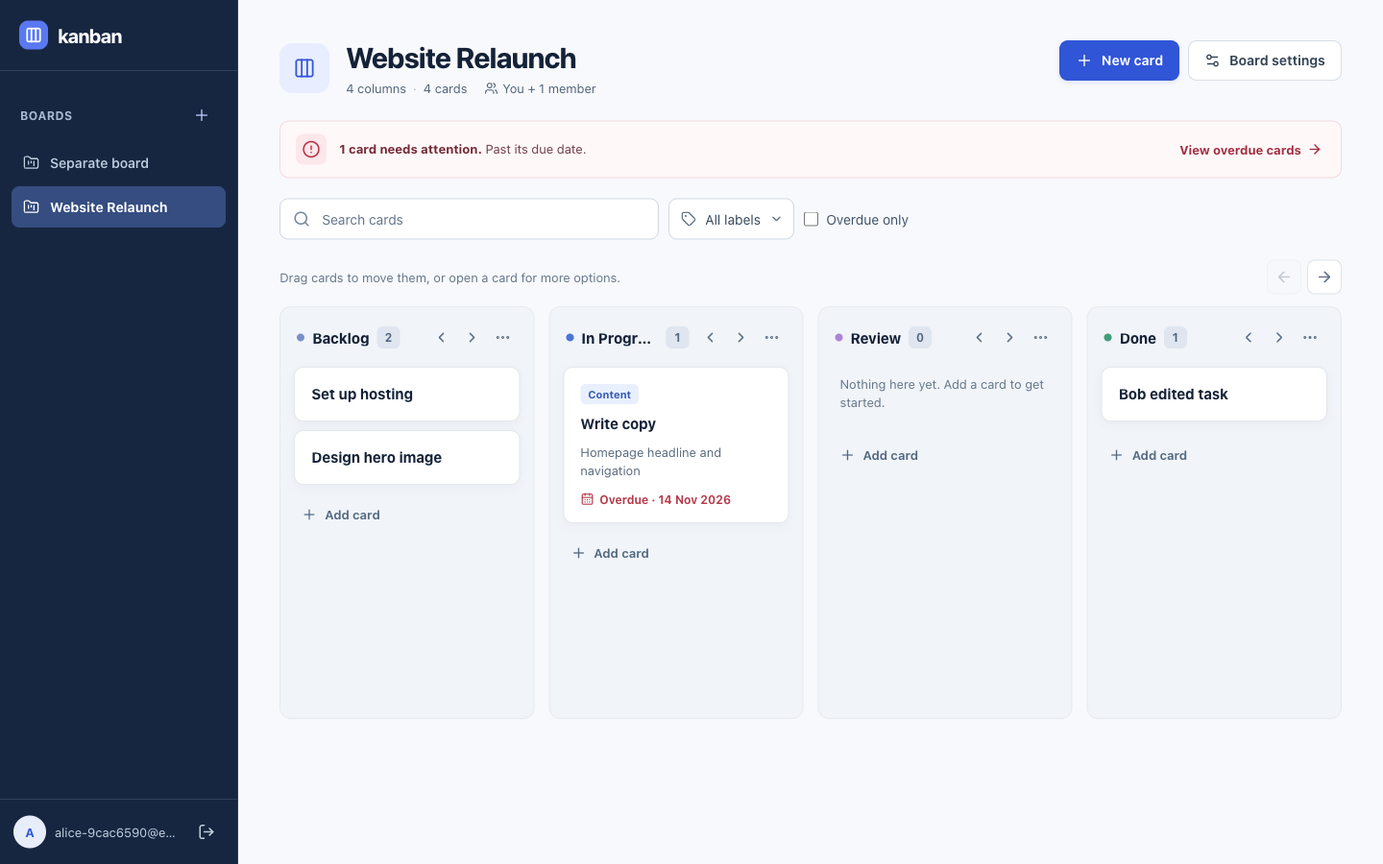
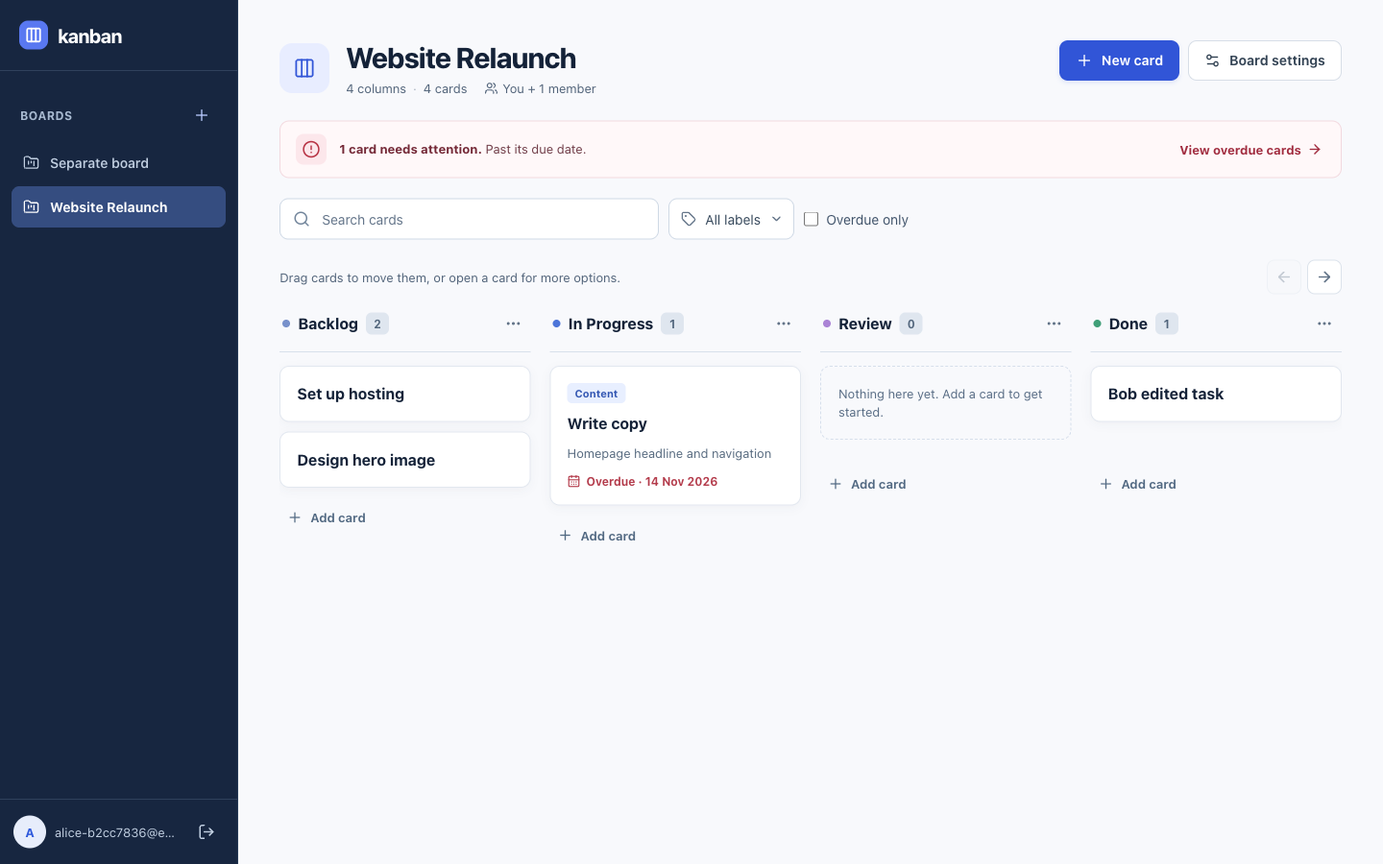
Polish Kanban board workflow and column layout

diff --git a/web/src/components.jsx b/web/src/components.jsx
@@ -1,7 +1,7 @@
 import { useEffect, useMemo, useRef, useState } from 'react';
 import {
-  ArrowLeft, ArrowRight, CalendarDays, Check, ChevronDown, ChevronLeft, ChevronRight,
-  CircleAlert, Columns3, Ellipsis, FolderKanban, GripVertical, LogOut, Plus,
+  ArrowLeft, ArrowRight, CalendarDays, ChevronDown,
+  CircleAlert, Columns3, Ellipsis, FolderKanban, LogOut, Plus,
   Search, Settings2, Tag, Trash2, Users, X,
 } from 'lucide-react';
 import { formatDate, isOverdue } from './api.js';
@@ -80,9 +80,20 @@ export function Sidebar({ boards, selectedId, me, onSelect, onCreate, onSignOut,
   </>;
 }
 
-export function BoardColumn({ column, cards, labels, owner, onAdd, onEdit, onMove, onReorder, onRename, onDelete }) {
+export function BoardColumn({ column, cards, labels, owner, canMoveLeft, canMoveRight, onAdd, onQuickAdd, onEdit, onMove, onReorder, onRename, onDelete }) {
   const [menu, setMenu] = useState(false);
   const [dragOver, setDragOver] = useState(false);
+  const [adding, setAdding] = useState(false);
+  const [draft, setDraft] = useState('');
+  const [saving, setSaving] = useState(false);
+  const submitDraft = async (event) => {
+    event.preventDefault();
+    if (!draft.trim() || saving) return;
+    setSaving(true);
+    const saved = await onQuickAdd(column.id, draft.trim());
+    setSaving(false);
+    if (saved) setDraft('');
+  };
   const drop = (event, index) => {
     event.preventDefault(); event.stopPropagation(); setDragOver(false);
     const id = Number(event.dataTransfer.getData('text/plain'));
@@ -90,7 +101,7 @@ export function BoardColumn({ column, cards, labels, owner, onAdd, onEdit, onMov
   };
   return <section className={`board-column ${dragOver ? 'drop-target' : ''}`} aria-labelledby={`column-${column.id}`} onDragOver={(event) => { event.preventDefault(); setDragOver(true); }} onDragLeave={(event) => { if (!event.currentTarget.contains(event.relatedTarget)) setDragOver(false); }} onDrop={(event) => drop(event, column.cards.length)}>
     <div className="column-top"><div className="column-title"><span className="stage-dot" aria-hidden="true" /><h2 id={`column-${column.id}`}>{column.name}</h2><span className="count">{column.cards.length}</span></div>
-      {owner && <div className="column-tools"><IconButton icon={ChevronLeft} label={`Move ${column.name} left`} onClick={() => onReorder(column.id, -1)} /><IconButton icon={ChevronRight} label={`Move ${column.name} right`} onClick={() => onReorder(column.id, 1)} /><div className="menu-wrap"><IconButton icon={Ellipsis} label={`${column.name} options`} aria-expanded={menu} onClick={() => setMenu(!menu)} />{menu && <div className="mini-menu"><button type="button" onClick={() => { setMenu(false); onRename(column); }}>Rename column</button><button type="button" className="danger-text" onClick={() => { setMenu(false); onDelete(column); }}>Delete column</button></div>}</div></div>}
+      {owner && <div className="column-tools"><div className="menu-wrap"><IconButton icon={Ellipsis} label={`${column.name} options`} aria-expanded={menu} onClick={() => setMenu(!menu)} />{menu && <div className="mini-menu"><button type="button" disabled={!canMoveLeft} onClick={() => { setMenu(false); onReorder(column.id, -1); }}>Move {column.name} left</button><button type="button" disabled={!canMoveRight} onClick={() => { setMenu(false); onReorder(column.id, 1); }}>Move {column.name} right</button><button type="button" onClick={() => { setMenu(false); onRename(column); }}>Rename column</button><button type="button" className="danger-text" onClick={() => { setMenu(false); onDelete(column); }}>Delete column</button></div>}</div></div>}
     </div>
     <div className="column-cards">{column.cards.length === 0 && <p className="column-empty">Nothing here yet. Add a card to get started.</p>}{cards.map((card) => {
       const overdue = isOverdue(card.due_date);
@@ -101,7 +112,11 @@ export function BoardColumn({ column, cards, labels, owner, onAdd, onEdit, onMov
         {card.due_date && <span className={`card-due ${overdue ? 'overdue' : ''}`}><CalendarDays size={14} aria-hidden="true" />{overdue ? 'Overdue · ' : ''}{formatDate(card.due_date)}</span>}
       </button>;
     })}</div>
-    <button type="button" className="add-card" onClick={() => onAdd(column.id)}><Plus size={16} strokeWidth={2} aria-hidden="true" />Add card</button>
+    {adding ? <form className="quick-add" onSubmit={submitDraft}>
+      <label className="sr-only" htmlFor={`quick-add-${column.id}`}>Card title for {column.name}</label>
+      <input id={`quick-add-${column.id}`} name="quick-card-title" autoComplete="off" autoFocus maxLength={200} placeholder="Card title" value={draft} onChange={(event) => setDraft(event.target.value)} onKeyDown={(event) => { if (event.key === 'Escape' && !draft.trim()) setAdding(false); }} />
+      <div className="quick-add-actions"><button type="submit" className="button primary" disabled={!draft.trim() || saving}>{saving ? 'Adding…' : 'Add card'}</button><button type="button" className="button subtle" onClick={() => { setAdding(false); setDraft(''); }}>Cancel</button><button type="button" className="quick-add-details" onClick={() => { onAdd(column.id, draft); setAdding(false); setDraft(''); }}>More details</button></div>
+    </form> : <button type="button" className="add-card" onClick={() => setAdding(true)}><Plus size={16} strokeWidth={2} aria-hidden="true" />Add card</button>}
   </section>;
 }
 
@@ -122,18 +137,28 @@ export function ConfirmDialog({ title, message, confirmLabel, onConfirm, onClose
   return <Dialog title={title} onClose={onClose}><div className="dialog-body"><p className="confirm-message">{message}</p>{error && <p className="form-error" role="alert">{error}</p>}<div className="dialog-actions"><button type="button" className="button secondary" onClick={onClose}>Cancel</button><button type="button" className="button danger" onClick={onConfirm} disabled={busy}>{confirmLabel}</button></div></div></Dialog>;
 }
 
-export function CardEditor({ card, initialColumnId, board, onSave, onDelete, onClose, busy, error }) {
+export function CardEditor({ card, initialTitle = '', initialColumnId, board, onSave, onDelete, onClose, busy, error }) {
   const initialColumn = board.columns.find((column) => column.id === (card?.column_id || initialColumnId)) || board.columns[0];
-  const [title, setTitle] = useState(card?.title || '');
+  const initialPosition = card ? initialColumn.cards.findIndex((item) => item.id === card.id) : initialColumn.cards.length;
+  const [title, setTitle] = useState(card?.title || initialTitle);
   const [description, setDescription] = useState(card?.description || '');
   const [dueDate, setDueDate] = useState(card?.due_date || '');
   const [labelIds, setLabelIds] = useState(card?.label_ids || []);
   const [columnId, setColumnId] = useState(initialColumn.id);
-  const [position, setPosition] = useState(card ? initialColumn.cards.findIndex((item) => item.id === card.id) : initialColumn.cards.length);
+  const [position, setPosition] = useState(initialPosition);
+  const [confirmDiscard, setConfirmDiscard] = useState(false);
   const target = board.columns.find((column) => column.id === columnId);
   const maxPosition = target.cards.length + (!card || card.column_id !== columnId ? 1 : 0);
   const toggleLabel = (id) => setLabelIds((current) => current.includes(id) ? current.filter((item) => item !== id) : [...current, id]);
-  return <Dialog title={card ? 'Edit card' : 'New card'} subtitle={card ? 'Update the details and place this card where it belongs.' : `Adding to ${initialColumn.name}`} onClose={onClose} className="card-dialog">
+  const dirty = title !== (card?.title || '') || description !== (card?.description || '') || dueDate !== (card?.due_date || '') || columnId !== initialColumn.id || position !== initialPosition || [...labelIds].sort().join(',') !== [...(card?.label_ids || [])].sort().join(',');
+  const requestClose = () => { if (dirty) setConfirmDiscard(true); else onClose(); };
+  useEffect(() => {
+    if (!dirty) return;
+    const warn = (event) => { event.preventDefault(); event.returnValue = ''; };
+    window.addEventListener('beforeunload', warn);
+    return () => window.removeEventListener('beforeunload', warn);
+  }, [dirty]);
+  return <Dialog title={card ? 'Edit card' : 'New card'} subtitle={card ? 'Update the details and place this card where it belongs.' : `Adding to ${initialColumn.name}`} onClose={requestClose} className="card-dialog">
     <form className="dialog-body card-form" onSubmit={(event) => { event.preventDefault(); onSave({ title: title.trim(), description, due_date: dueDate || null, label_ids: labelIds, column_id: columnId, position }); }}>
       <label className="field-label">Title<input name="title" autoComplete="off" autoFocus={window.matchMedia('(pointer: fine)').matches} value={title} onChange={(event) => setTitle(event.target.value)} required maxLength={200} placeholder="What needs to get done?" /></label>
       <label className="field-label"><span className="field-heading">Description <span className="optional">Optional</span></span><textarea name="description" autoComplete="off" value={description} onChange={(event) => setDescription(event.target.value)} rows={4} placeholder="Add useful context for your team" /></label>
@@ -142,7 +167,8 @@ export function CardEditor({ card, initialColumnId, board, onSave, onDelete, onC
       <label className="field-label position-field">Position<select name="position" value={Math.min(position, maxPosition - 1)} onChange={(event) => setPosition(Number(event.target.value))}>{Array.from({ length: maxPosition }, (_, index) => <option key={index} value={index}>{index + 1} of {maxPosition}</option>)}</select></label>
       <fieldset className="label-picker"><legend>Labels</legend>{board.labels.length ? <div className="label-options">{board.labels.map((label) => <label key={label.id} className="label-option"><input type="checkbox" checked={labelIds.includes(label.id)} onChange={() => toggleLabel(label.id)} /><span className={`label-chip ${label.color}`}>{label.name}</span></label>)}</div> : <p>No labels yet. A board owner can add them in Board settings.</p>}</fieldset>
       {error && <p className="form-error" role="alert"><CircleAlert size={16} aria-hidden="true" />{error}</p>}
-      <div className="dialog-actions"><div>{card && <button type="button" className="button text-danger" onClick={onDelete}><Trash2 size={16} aria-hidden="true" />Delete card</button>}</div><div className="action-group"><button type="button" className="button secondary" onClick={onClose}>Cancel</button><button type="submit" className="button primary" disabled={busy || !title.trim()}>{busy ? 'Saving…' : card ? 'Save changes' : 'Create card'}</button></div></div>
+      {confirmDiscard && <div className="discard-prompt" role="alert"><div><strong>Discard your changes?</strong><span>The card has unsaved edits.</span></div><div className="action-group"><button type="button" className="button secondary" onClick={() => setConfirmDiscard(false)}>Keep editing</button><button type="button" className="button danger-outline" onClick={onClose}>Discard changes</button></div></div>}
+      <div className="dialog-actions"><div>{card && <button type="button" className="button text-danger" onClick={onDelete}><Trash2 size={16} aria-hidden="true" />Delete card</button>}</div><div className="action-group"><button type="button" className="button secondary" onClick={requestClose}>Cancel</button><button type="submit" className="button primary" disabled={busy || !title.trim()}>{busy ? 'Saving…' : card ? 'Save changes' : 'Create card'}</button></div></div>
     </form>
   </Dialog>;
 }

diff --git a/web/src/styles.css b/web/src/styles.css
@@ -34,6 +34,8 @@ button, input, textarea, select { -webkit-tap-highlight-color: transparent; }
 .button.primary:disabled { opacity: .55; }
 .button.secondary { background: white; border-color: #d7dee7; color: #334354; }
 .button.secondary:hover { background: #f4f6f9; border-color: #bac6d4; }
+.button.subtle { background: transparent; color: #52647a; }
+.button.subtle:hover { background: #e9edf4; color: var(--ink); }
 .button.danger { background: var(--danger); color: white; }
 .button.danger:hover { background: #9c2637; }
 .button.danger-outline { color: var(--danger); background: white; border-color: #ecc5ca; }
@@ -138,7 +140,7 @@ button, input, textarea, select { -webkit-tap-highlight-color: transparent; }
 .clear-filters, .filter-empty button { border: 0; background: transparent; color: var(--blue); font-size: 13px; font-weight: 680; }
 .clear-filters:hover, .filter-empty button:hover { text-decoration: underline; }
 .board-tools { display: flex; justify-content: space-between; align-items: center; gap: 16px; min-height: 34px; margin-bottom: 12px; }
-.board-tools p { margin: 0; color: #64768b; font-size: 13px; }
+.board-tools p { margin: 0; color: #52647a; font-size: 13px; }
 .board-navigation { display: flex; gap: 6px; }
 .board-navigation .icon-button { border: 1px solid #dce3eb; background: white; }
 .board-navigation .icon-button:disabled { background: #f5f6f8; }
@@ -146,28 +148,29 @@ button, input, textarea, select { -webkit-tap-highlight-color: transparent; }
 .board-scroll { width: 100%; min-width: 0; overflow-x: auto; overflow-y: hidden; padding: 0 0 16px; scrollbar-color: #c2cbd8 transparent; scroll-behavior: smooth; }
 .board-scroll:focus { outline: none; }
 .board-scroll:focus-visible { outline: 3px solid #86a5ff; outline-offset: 2px; }
-.board-columns { display: flex; gap: 15px; align-items: flex-start; min-height: 330px; width: max-content; }
-.board-column { --stage-color: #8494aa; display: flex; flex-direction: column; width: clamp(260px, calc((100vw - 248px - 6vw - 45px) / 4), 310px); min-height: 430px; padding: 14px; border: 1px solid #e5eaf1; border-radius: 12px; background: var(--column); transition: border-color .15s ease, background .15s ease; }
+.board-columns { display: flex; gap: 20px; align-items: flex-start; min-height: 330px; width: max-content; }
+.board-column { --stage-color: #8494aa; display: flex; flex-direction: column; width: clamp(260px, calc((100vw - 248px - 6vw - 60px) / 4), 310px); min-height: 340px; padding: 0; border-radius: 10px; background: transparent; transition: background .15s ease; }
 .board-column:nth-child(4n + 1) { --stage-color: #7891cb; }
 .board-column:nth-child(4n + 2) { --stage-color: #4d75d9; }
 .board-column:nth-child(4n + 3) { --stage-color: #ab84d6; }
 .board-column:nth-child(4n + 4) { --stage-color: #409f78; }
-.board-column.drop-target { border-color: #7896e7; background: #e9eeff; }
-.column-top { display: flex; align-items: center; justify-content: space-between; gap: 6px; min-height: 35px; margin-bottom: 13px; padding: 0 2px 0 3px; }
+.board-column.drop-target { background: #e9eeff; }
+.column-top { display: flex; align-items: center; justify-content: space-between; gap: 6px; min-height: 48px; margin-bottom: 14px; padding: 0 2px 11px 3px; border-bottom: 1px solid #d8e0eb; }
 .column-title { display: flex; align-items: center; gap: 8px; min-width: 0; }
 .stage-dot { width: 8px; height: 8px; flex: none; border-radius: 50%; background: var(--stage-color); }
-.column-title h2 { margin: 0; overflow: hidden; text-overflow: ellipsis; white-space: nowrap; font-size: 15px; font-weight: 730; }
+.column-title h2 { min-width: 0; margin: 0; overflow-wrap: anywhere; font-size: 16px; line-height: 1.25; font-weight: 730; }
 .count { display: inline-grid; place-items: center; min-width: 24px; height: 23px; padding: 0 6px; border-radius: 6px; background: #dfe6ef; color: #50647b; font-size: 12px; font-weight: 680; font-variant-numeric: tabular-nums; }
 .column-tools { display: flex; align-items: center; flex: none; }
 .column-tools .icon-button { width: 32px; height: 32px; }
 .menu-wrap { position: relative; }
-.mini-menu { position: absolute; z-index: 5; top: 29px; right: 0; width: 148px; padding: 4px; border: 1px solid #dfe5ed; border-radius: 8px; background: white; box-shadow: 0 12px 30px #20304924; }
-.mini-menu button { display: block; width: 100%; padding: 8px 9px; border: 0; border-radius: 5px; background: transparent; color: #37485b; text-align: left; font-size: 12px; }
+.mini-menu { position: absolute; z-index: 5; top: 37px; right: 0; width: 200px; padding: 5px; border: 1px solid #dfe5ed; border-radius: 9px; background: white; box-shadow: 0 12px 30px #20304924; }
+.mini-menu button { display: block; width: 100%; padding: 9px 10px; border: 0; border-radius: 6px; background: transparent; color: #37485b; text-align: left; font-size: 13px; }
 .mini-menu button:hover { background: #f3f5f9; }
+.mini-menu button:disabled { color: #98a7b8; background: transparent; }
 .mini-menu .danger-text { color: var(--danger); }
-.column-cards { display: grid; align-content: start; gap: 9px; min-height: 61px; }
-.column-empty { margin: 8px 8px 7px; color: #65768b; font-size: 13px; line-height: 1.5; }
-.task-card { display: flex; flex-direction: column; align-items: flex-start; gap: 10px; width: 100%; padding: 17px; border: 1px solid #e3e7ee; border-radius: 10px; background: white; color: var(--ink); box-shadow: 0 3px 10px #1e2a3a0b; text-align: left; cursor: grab; transition: border-color .15s ease, box-shadow .15s ease, transform .15s ease; }
+.column-cards { display: grid; align-content: start; gap: 10px; min-height: 92px; }
+.column-empty { margin: 0; padding: 18px; border: 1px dashed #d6dfeb; border-radius: 10px; color: #596d85; font-size: 13px; line-height: 1.5; }
+.task-card { display: flex; flex-direction: column; align-items: flex-start; gap: 10px; width: 100%; padding: 17px; border: 1px solid #e2e7ef; border-radius: 10px; background: white; color: var(--ink); box-shadow: 0 3px 10px #1e2a3a0b; text-align: left; cursor: grab; transition: border-color .15s ease, box-shadow .15s ease, transform .15s ease; }
 .task-card:hover { border-color: #aabce5; box-shadow: 0 5px 16px #24304816; transform: translateY(-1px); }
 .task-card:active { cursor: grabbing; }
 .card-labels { display: flex; flex-wrap: wrap; gap: 5px; }
@@ -177,12 +180,19 @@ button, input, textarea, select { -webkit-tap-highlight-color: transparent; }
 .label-chip.green { background: #def5eb; color: #287357; }
 .label-chip.purple { background: #f0e9ff; color: #6d45a0; }
 .label-chip.amber { background: #fff1d8; color: #936019; }
-.card-title { width: 100%; overflow-wrap: anywhere; font-size: 15px; line-height: 1.4; font-weight: 700; }
+.card-title { width: 100%; overflow-wrap: anywhere; font-size: 16px; line-height: 1.4; font-weight: 700; }
 .card-description { display: -webkit-box; width: 100%; overflow: hidden; color: #586b80; font-size: 13px; line-height: 1.45; overflow-wrap: anywhere; -webkit-box-orient: vertical; -webkit-line-clamp: 2; }
 .card-due { display: inline-flex; align-items: center; gap: 6px; margin-top: 3px; color: #576a80; font-size: 12px; }
 .card-due.overdue { color: #b33a4a; font-weight: 680; }
 .add-card { display: flex; align-items: center; gap: 8px; width: 100%; min-height: 44px; margin-top: 9px; padding: 9px 8px; border: 0; border-radius: 8px; background: transparent; color: #526982; text-align: left; font-size: 13px; font-weight: 650; }
 .add-card:hover { background: #e5e9ef; color: #394f71; }
+.quick-add { display: grid; gap: 10px; margin-top: 10px; padding: 11px; border: 1px solid #cdd9ef; border-radius: 10px; background: white; box-shadow: 0 8px 22px #24304812; }
+.quick-add input { width: 100%; min-width: 0; height: 40px; padding: 9px 11px; border: 1px solid #d5dde7; border-radius: 7px; outline: 0; color: var(--ink); background: white; font-size: 14px; }
+.quick-add input:focus { border-color: #6b8cf1; outline: 3px solid #e4ebff; }
+.quick-add-actions { display: flex; align-items: center; gap: 3px; flex-wrap: wrap; }
+.quick-add-actions .button { min-height: 36px; padding: 8px 10px; font-size: 12px; }
+.quick-add-details { margin-left: auto; padding: 8px 2px; border: 0; background: transparent; color: var(--blue); font-size: 12px; font-weight: 690; }
+.quick-add-details:hover { text-decoration: underline; }
 .add-column { display: flex; align-items: center; gap: 9px; width: 195px; min-height: 41px; padding: 10px 12px; border: 1px dashed #c8d2de; border-radius: 9px; background: #f7f9fc; color: #5f6f81; text-align: left; font-size: 13px; font-weight: 600; }
 .add-column:hover { background: #ecf1fb; border-color: #9eafe0; color: #315bdc; }
 
@@ -207,6 +217,9 @@ button, input, textarea, select { -webkit-tap-highlight-color: transparent; }
 .card-form .dialog-actions { justify-content: space-between; }
 .action-group { display: flex; gap: 8px; }
 .confirm-message { margin: 0; color: #4d5b6b; font-size: 14px; line-height: 1.55; }
+.discard-prompt { display: flex; align-items: center; justify-content: space-between; gap: 14px; flex-wrap: wrap; padding: 12px; border: 1px solid #ecc5ca; border-radius: 9px; background: #fff7f8; }
+.discard-prompt > div:first-child { display: grid; gap: 3px; color: #7d2c39; font-size: 13px; }
+.discard-prompt span { color: #73515a; }
 .settings-dialog { width: min(100% - 32px, 570px); }
 .settings-tabs { display: flex; gap: 3px; padding: 0 19px; border-bottom: 1px solid var(--line); }
 .settings-tabs button { display: inline-flex; align-items: center; gap: 7px; min-height: 45px; padding: 0 13px; border: 0; border-bottom: 2px solid transparent; background: transparent; color: #596b80; font-size: 13px; font-weight: 650; }

diff --git a/web/src/App.jsx b/web/src/App.jsx
@@ -219,7 +219,7 @@ export default function App() {
         <div className="board-tools"><p>{hasFilters ? `${visibleCount} of ${totalCount} cards shown` : 'Drag cards to move them, or open a card for more options.'}</p><div className="board-navigation"><IconButton icon={ArrowLeft} label="Scroll columns left" disabled={!scrollState.left} onClick={() => boardRef.current?.scrollBy({ left: -350, behavior: 'smooth' })} /><IconButton icon={ArrowRight} label="Scroll columns right" disabled={!scrollState.right} onClick={() => boardRef.current?.scrollBy({ left: 350, behavior: 'smooth' })} /></div></div>
         {hasFilters && visibleCount === 0 && <div className="filter-empty"><SlidersHorizontal size={19} aria-hidden="true" /><span>No cards match these filters.</span><button type="button" onClick={clearFilters}>Clear filters</button></div>}
         <div className="board-scroll" ref={boardRef} onScroll={(event) => { const rail = event.currentTarget; setScrollState({ left: rail.scrollLeft > 4, right: rail.scrollLeft + rail.clientWidth < rail.scrollWidth - 4 }); }} tabIndex={0} aria-label="Board columns">
-          <div className="board-columns">{board.columns.map((column) => <BoardColumn key={column.id} column={column} cards={visibleCards.get(column.id) || []} labels={board.labels} owner={board.owner} onAdd={(columnId) => openDialog({ type: 'card', columnId })} onEdit={(card, columnId) => openDialog({ type: 'card', card, columnId })} onMove={moveCard} onReorder={reorderColumn} onRename={(target) => openDialog({ type: 'renameColumn', column: target })} onDelete={(target) => openDialog({ type: 'deleteColumn', column: target })} />)}{board.owner && <button className="add-column" onClick={() => openDialog({ type: 'createColumn' })}><Plus size={18} aria-hidden="true" />Add column</button>}</div>
+          <div className="board-columns">{board.columns.map((column, index) => <BoardColumn key={column.id} column={column} cards={visibleCards.get(column.id) || []} labels={board.labels} owner={board.owner} canMoveLeft={index > 0} canMoveRight={index < board.columns.length - 1} onAdd={(columnId, draftTitle = '') => openDialog({ type: 'card', columnId, draftTitle })} onQuickAdd={(columnId, title) => mutate(`/boards/${board.id}/cards`, 'POST', { column_id: columnId, title, description: '' }, 'Card added.')} onEdit={(card, columnId) => openDialog({ type: 'card', card, columnId })} onMove={moveCard} onReorder={reorderColumn} onRename={(target) => openDialog({ type: 'renameColumn', column: target })} onDelete={(target) => openDialog({ type: 'deleteColumn', column: target })} />)}{board.owner && <button className="add-column" onClick={() => openDialog({ type: 'createColumn' })}><Plus size={18} aria-hidden="true" />Add column</button>}</div>
         </div>
       </>}
     </main>
@@ -227,7 +227,7 @@ export default function App() {
     {dialog?.type === 'createBoard' && <NameDialog title="Create board" label="Board name" submitLabel="Create board" onSave={createBoard} onClose={closeDialog} busy={busy} error={dialogError} />}
     {dialog?.type === 'createColumn' && <NameDialog title="Add column" label="Column name" submitLabel="Add column" onSave={(name) => mutate(`/boards/${board.id}/columns`, 'POST', { name }, 'Column added.', true)} onClose={closeDialog} busy={busy} error={dialogError} />}
     {dialog?.type === 'renameColumn' && <NameDialog title="Rename column" label="Column name" initial={dialog.column.name} submitLabel="Save name" onSave={(name) => mutate(`/boards/${board.id}/columns/${dialog.column.id}`, 'PATCH', { name }, 'Column renamed.', true)} onClose={closeDialog} busy={busy} error={dialogError} />}
-    {dialog?.type === 'card' && <CardEditor card={dialog.card} initialColumnId={dialog.columnId} board={board} onSave={saveCard} onDelete={() => openDialog({ type: 'deleteCard', card: dialog.card })} onClose={closeDialog} busy={busy} error={dialogError} />}
+    {dialog?.type === 'card' && <CardEditor card={dialog.card} initialTitle={dialog.draftTitle} initialColumnId={dialog.columnId} board={board} onSave={saveCard} onDelete={() => openDialog({ type: 'deleteCard', card: dialog.card })} onClose={closeDialog} busy={busy} error={dialogError} />}
     {dialog?.type === 'settings' && <BoardSettings board={board} onClose={closeDialog} onRename={(name) => mutate(`/boards/${board.id}`, 'PATCH', { name }, 'Board renamed.')} onAddLabel={(name, color) => mutate(`/boards/${board.id}/labels`, 'POST', { name, color }, 'Label added.')} onRemoveLabel={(label) => openDialog({ type: 'deleteLabel', label })} onAddMember={(email) => mutate(`/boards/${board.id}/members`, 'POST', { email }, 'Member added.')} onRemoveMember={(member) => openDialog({ type: 'removeMember', member })} onDeleteBoard={() => openDialog({ type: 'deleteBoard' })} busy={busy} error={dialogError} />}
     {dialog?.type === 'deleteCard' && <ConfirmDialog title="Delete card?" message={`“${dialog.card.title}” will be removed from this board.`} confirmLabel="Delete card" onConfirm={() => mutate(`/boards/${board.id}/cards/${dialog.card.id}`, 'DELETE', undefined, 'Card deleted.', true)} onClose={closeDialog} busy={busy} error={dialogError} />}
     {dialog?.type === 'deleteColumn' && <ConfirmDialog title="Delete column?" message={dialog.column.cards.length ? `Move the ${dialog.column.cards.length} cards out of “${dialog.column.name}” first.` : `“${dialog.column.name}” will be removed from this board.`} confirmLabel="Delete column" onConfirm={() => mutate(`/boards/${board.id}/columns/${dialog.column.id}`, 'DELETE', undefined, 'Column deleted.', true)} onClose={closeDialog} busy={busy} error={dialogError} />}

diff --git a/tests/browser_visible.py b/tests/browser_visible.py
@@ -71,6 +71,7 @@ with sync_playwright() as playwright:
     alice.get_by_role('heading', name='Website Relaunch').wait_for()
     board_id = int(alice.url.rstrip('/').split('/')[-1])
     assert [item.inner_text() for item in alice.locator('.board-column h2').all()] == ['To Do', 'In Progress', 'Done']
+    assert column(alice, 'In Progress').locator('h2').evaluate('(node) => node.scrollWidth <= node.clientWidth && node.scrollHeight <= node.clientHeight')
     step('Board creation and three default columns')
 
     alice.get_by_role('button', name='New card').click()
@@ -98,6 +99,7 @@ with sync_playwright() as playwright:
     alice.get_by_label('Column name').fill('Review')
     alice.get_by_role('button', name='Add column').last.click()
     column(alice, 'Review').wait_for()
+    column(alice, 'Review').get_by_role('button', name='Review options').click()
     column(alice, 'Review').get_by_role('button', name='Move Review left').click()
     alice.locator('.board-column').nth(2).get_by_role('heading', name='Review').wait_for()
     column(alice, 'To Do').get_by_role('button', name='To Do options').click()
@@ -108,21 +110,35 @@ with sync_playwright() as playwright:
     step('Add, reorder and rename columns')
 
     column(alice, 'Backlog').get_by_role('button', name='Add card').click()
-    assert alice.get_by_role('button', name='Create card').is_disabled()
-    alice.get_by_role('textbox', name='Title', exact=True).fill('Write copy')
+    assert column(alice, 'Backlog').get_by_role('button', name='Add card').is_disabled()
+    column(alice, 'Backlog').get_by_label('Card title for Backlog').fill('Write copy')
+    column(alice, 'Backlog').get_by_role('button', name='More details').click()
+    assert alice.get_by_role('textbox', name='Title', exact=True).input_value() == 'Write copy'
     alice.locator('.card-form textarea').fill('Homepage headline and navigation')
     alice.get_by_role('button', name='Create card').click()
     card(alice, 'Write copy').wait_for()
+    column(alice, 'Backlog').get_by_role('button', name='Add card').click()
     for title in ['Design hero image', 'Set up hosting']:
+        column(alice, 'Backlog').get_by_label('Card title for Backlog').fill(title)
         column(alice, 'Backlog').get_by_role('button', name='Add card').click()
-        alice.get_by_role('textbox', name='Title', exact=True).fill(title)
-        alice.get_by_role('button', name='Create card').click()
         card(alice, title).wait_for()
+    column(alice, 'Backlog').get_by_role('button', name='Cancel').click()
     card(alice, 'Set up hosting').click()
     alice.get_by_label('Position').select_option('0')
     alice.get_by_role('button', name='Save changes').click()
     alice.locator('.board-column').first.locator('.task-card').first.get_by_text('Set up hosting').wait_for()
     step('Required card title, card creation and same-column reorder')
+
+    card(alice, 'Design hero image').click()
+    alice.get_by_role('textbox', name='Title', exact=True).fill('Unpublished draft')
+    alice.get_by_role('button', name='Cancel').click()
+    alice.get_by_text('Discard your changes?').wait_for()
+    alice.get_by_role('button', name='Keep editing').click()
+    assert alice.get_by_role('textbox', name='Title', exact=True).input_value() == 'Unpublished draft'
+    alice.get_by_role('button', name='Cancel').click()
+    alice.get_by_role('button', name='Discard changes').click()
+    card(alice, 'Design hero image').wait_for()
+    step('Unsaved card edits require an explicit discard choice')
 
     card(alice, 'Design hero image').drag_to(card(alice, 'Set up hosting'))
     column(alice, 'Backlog').locator('.task-card').first.get_by_text('Design hero image').wait_for()
@@ -233,8 +249,9 @@ with sync_playwright() as playwright:
     assert bob.get_by_role('button', name='Board settings').count() == 0
     assert bob.get_by_role('button', name='Add column').count() == 0
     column(bob, 'Backlog').get_by_role('button', name='Add card').click()
-    bob.get_by_role('textbox', name='Title', exact=True).fill('Bob task')
-    bob.get_by_role('button', name='Create card').click()
+    column(bob, 'Backlog').get_by_label('Card title for Backlog').fill('Bob task')
+    column(bob, 'Backlog').get_by_role('button', name='Add card').click()
+    column(bob, 'Backlog').get_by_role('button', name='Cancel').click()
     card(bob, 'Bob task').click()
     bob.get_by_role('textbox', name='Title', exact=True).fill('Bob edited task')
     bob.locator('.card-form .form-row select').select_option(label='Done')

diff --git a/TESTING.md b/TESTING.md
@@ -37,11 +37,11 @@ The browser script creates random `@example.com` test accounts in the disposable
 | --- | --- |
 | Access | Signed-out workspace hidden; sign-up, sign-out, sign-in |
 | Boards and columns | Create board; add, reorder, rename and delete columns; delete board with cards |
-| Cards | Required title; create, edit, delete; native drag and drop within/across columns; editor-based move |
+| Cards | Required title; inline quick capture; draft handoff to full editor; unsaved-edit discard choice; create, edit, delete; native drag and drop within/across columns; editor-based move |
 | Due dates and labels | Overdue flag appears and clears; board label creation and card attachment |
 | Finding cards | Case-insensitive description search; label and overdue filters together; no-match state |
 | Teams | Member sees and changes cards; owner sees member changes; member board/column/label/member API changes receive 403; non-member board request receives 404 |
-| Persistence and layout | Reload retains board and card positions; four complete columns at 1440px; sign-in, board, editor, settings and mobile screenshots; no page overflow at 320px; no browser page errors |
+| Persistence and layout | Reload retains board and card positions; complete “In Progress” heading and four columns at 1440px; sign-in, board, editor, settings and mobile screenshots; no page overflow at 320px; no browser page errors |
 
 The screenshot account names are visual placeholders; test accounts have random addresses in the disposable database.
 

diff --git a/README.md b/README.md
@@ -44,10 +44,11 @@ Open [http://127.0.0.1:5173](http://127.0.0.1:5173). Vite proxies `/api` to port
 ## Use the board
 
 - New boards start with To Do, In Progress and Done. Owners can add, rename, reorder and delete columns, and manage board labels and members.
-- Add cards with a title, description, due date and labels. Click a card to edit it. Drag a card onto another card or empty part of a column to move it, or choose its column and position in the editor. Reload to verify saved order.
+- Use **Add card** in a column to capture a title inline, then keep adding without leaving the board. Choose **More details** to carry the title into the full editor for a description, due date, labels and placement. Click a card to edit it. Drag a card onto another card or empty part of a column to move it, or choose its column and position in the editor. Reload to verify saved order.
 - Search titles and descriptions without case sensitivity. Label and overdue filters combine with search.
 - A board-level attention cue opens overdue cards in one click; the main New card action starts a card in the first column.
 - Open a card to edit or delete it. A column with cards cannot be deleted until they are moved or deleted.
+- Closing a card with unsaved edits asks whether to keep editing or discard the changes.
 - Use **Board settings** to rename or delete a board, create or remove labels, and add or remove members.
 - The session is verified before showing the workspace on reload, so a signed-in user does not see a sign-in flash.
 
